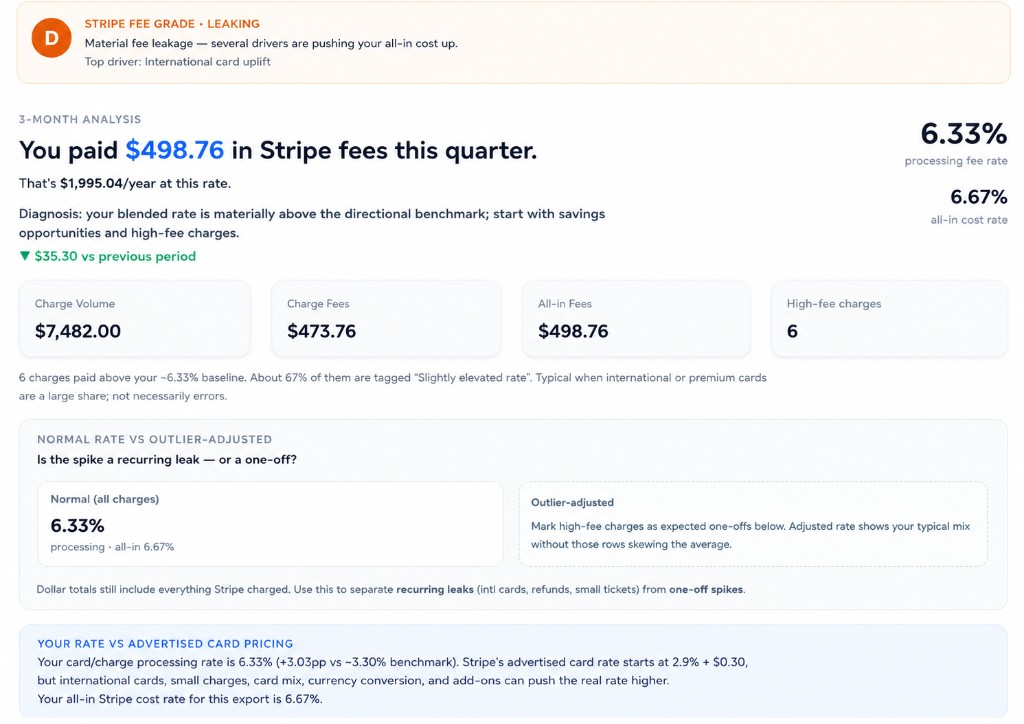
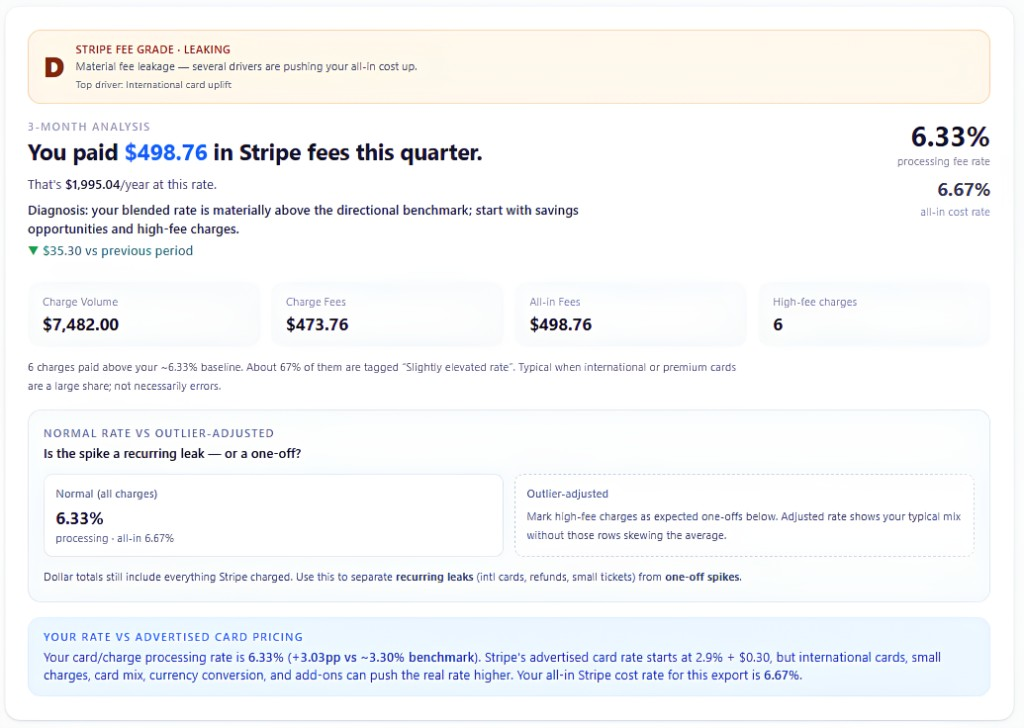
fix(landing): use polished report preview hero screenshot

diff --git a/app/page.tsx b/app/page.tsx
@@ -290,7 +290,7 @@ export default function HomePage() {
               src="/screenshots/report-preview.png"
               alt="Stripe Fee Auditor report: Fee Grade D, $498.76 in quarter fees, 6.33% processing rate, 6.67% all-in cost, and comparison vs advertised 2.9% card pricing"
               width={1024}
-              height={724}
+              height={728}
               unoptimized
               sizes="(min-width: 1024px) 960px, 100vw"
               className="h-auto w-full"
